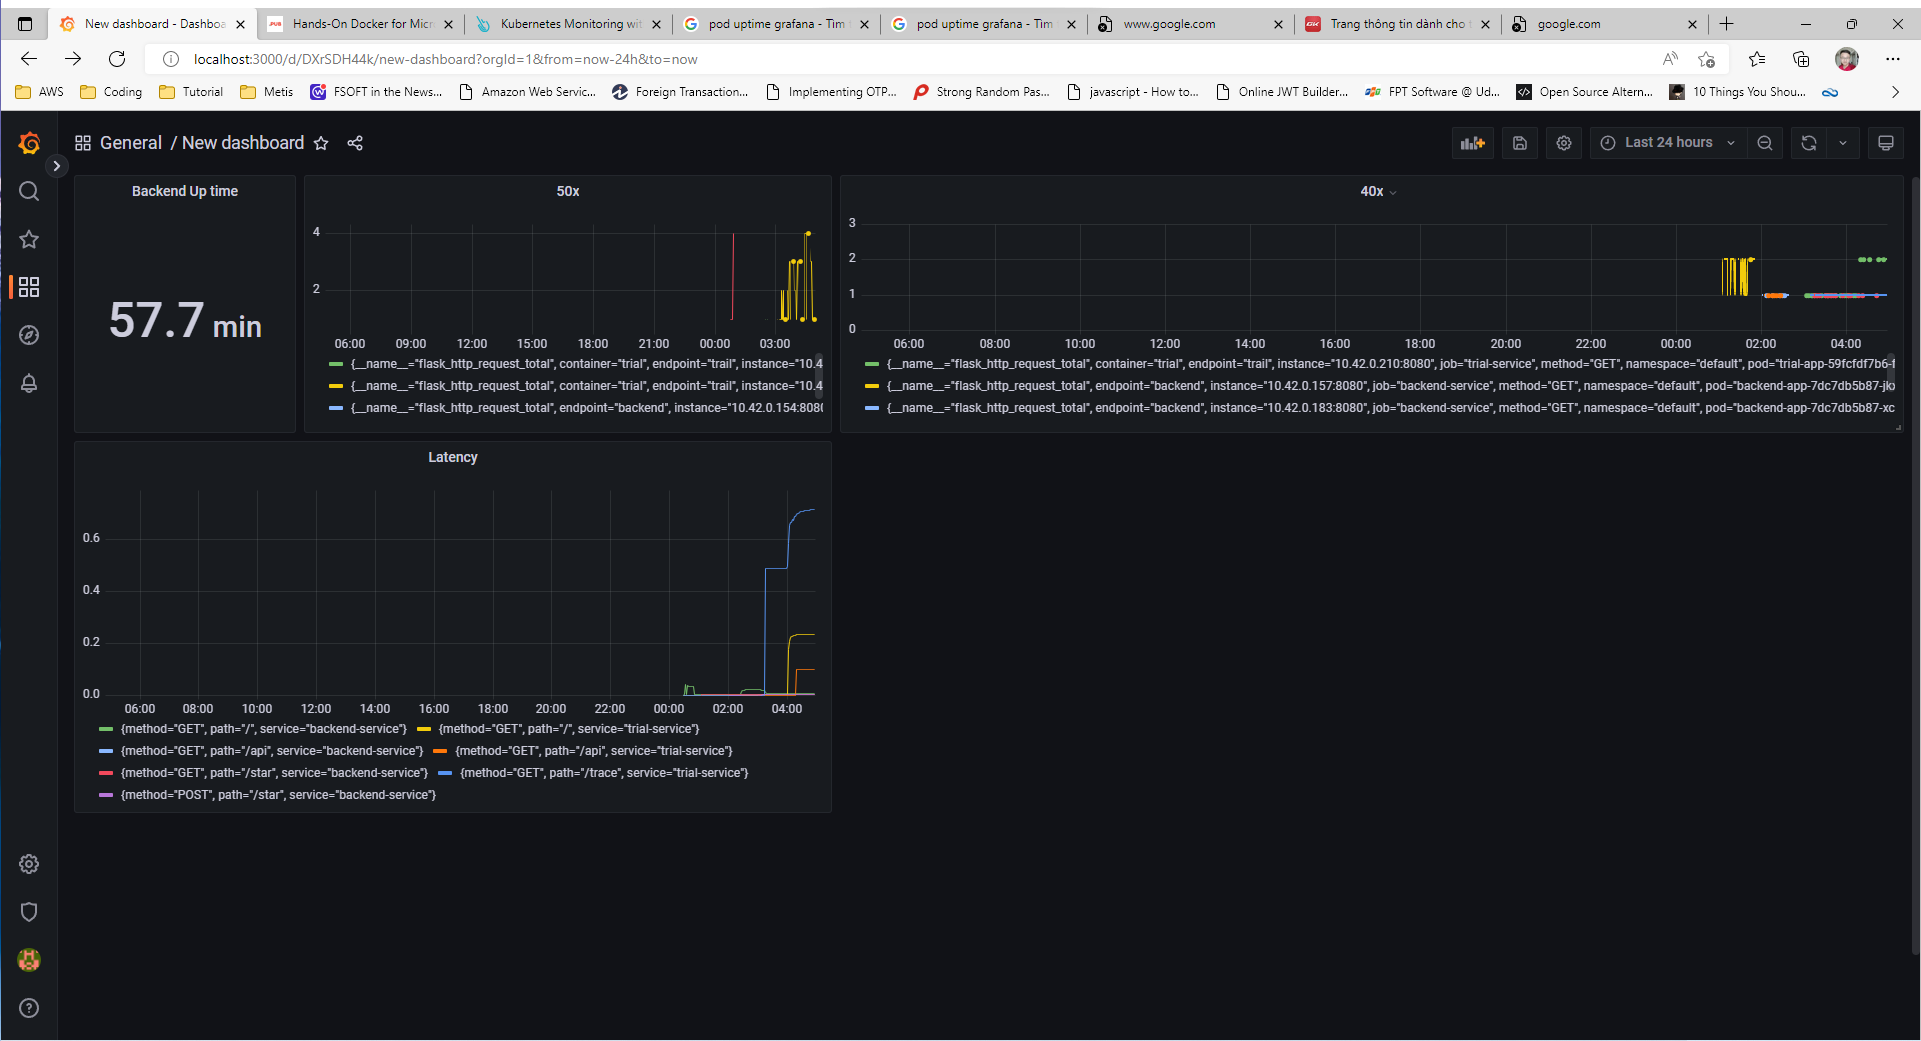
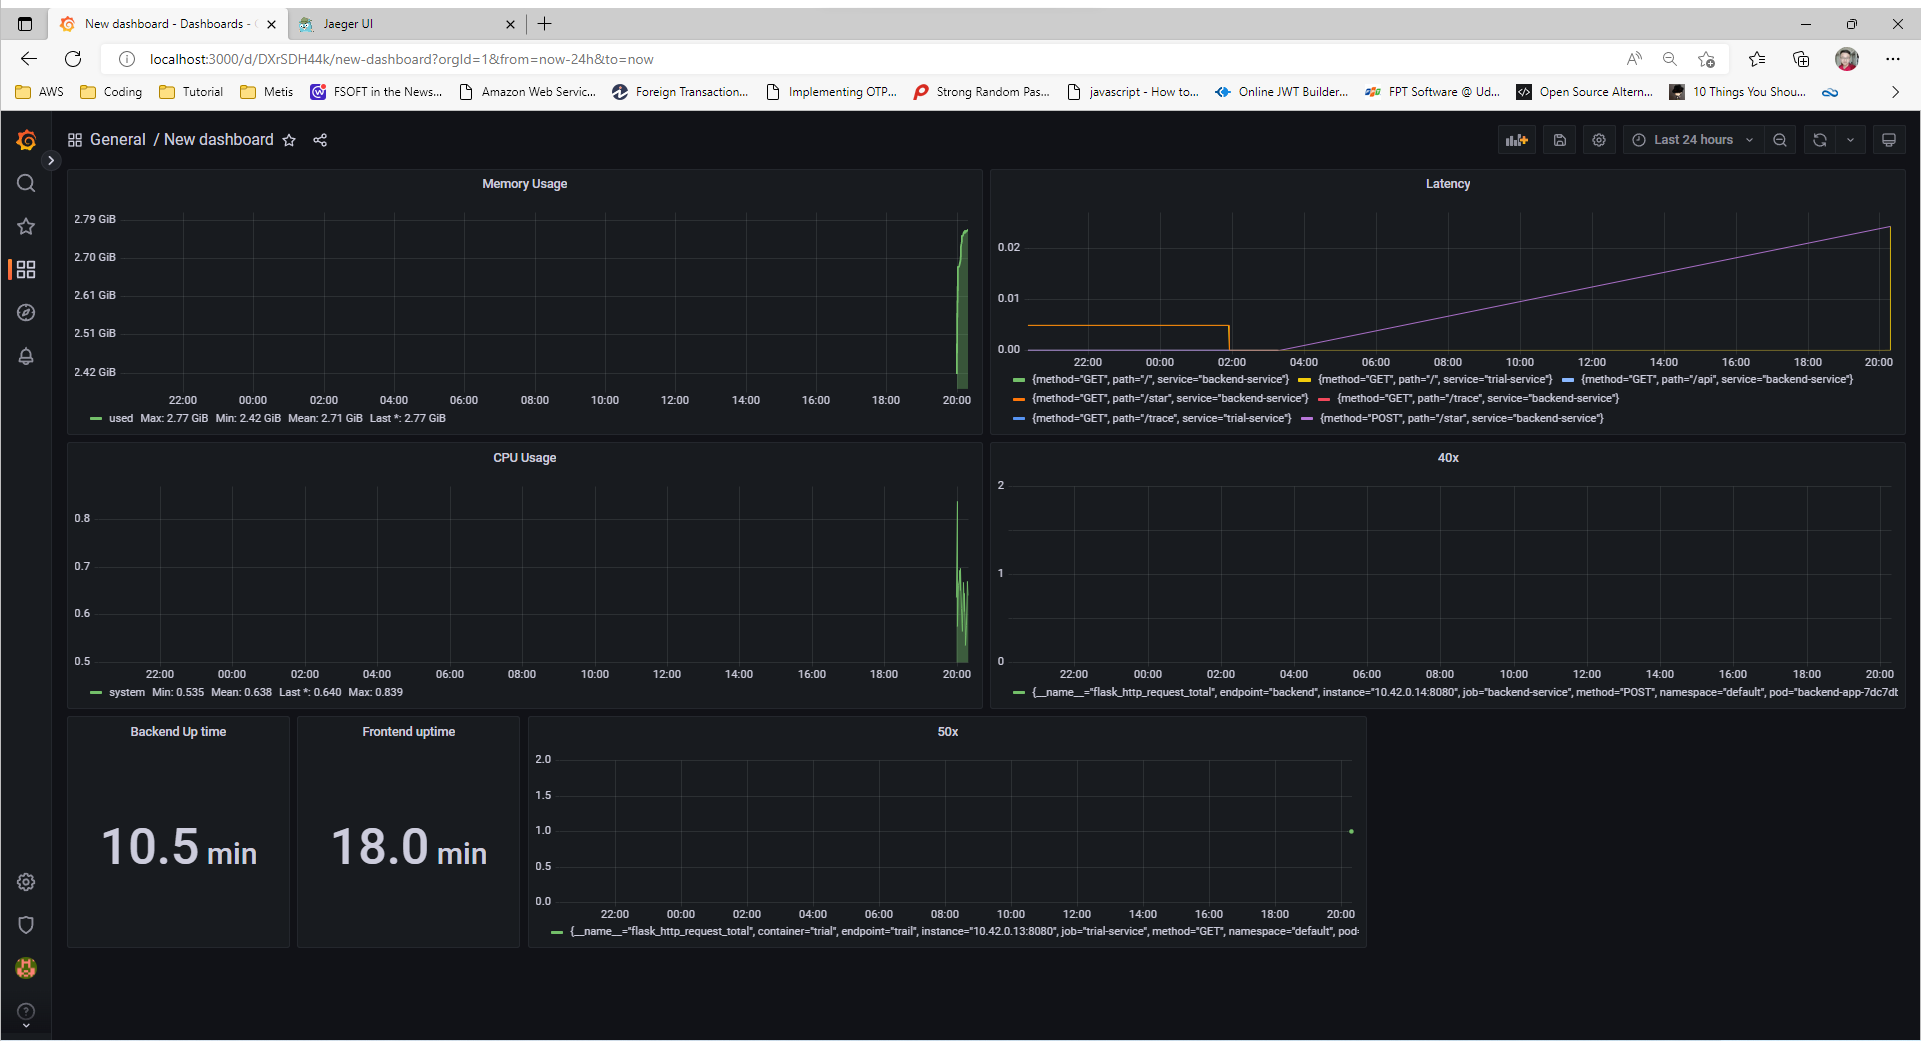
Fix review

diff --git a/Project_Starter_Files-Building_a_Metrics_Dashboard/README.md b/Project_Starter_Files-Building_a_Metrics_Dashboard/README.md
@@ -18,6 +18,8 @@
 
 ![Dashboard in Grafana with Prometheus as a source](./answer-img/cpu_usage_dashboard.png "Cpu usage with backend container")
 
+![Create a Basic Dashboard shows Prometheus as a source](./answer-img/grafana_home_page_after_login_review.png "Create a Basic Dashboard shows Prometheus as a source")
+
 ## Describe SLO/SLI
 *DONE:* Describe, in your own words, what the SLIs are, based on an SLO of *monthly uptime* and *request response time*.
 - SLIs is actual meassurement of SLO. In case of SLO *monthly uptime* and *request response time*. We can have these following SLI
@@ -42,7 +44,7 @@ The first 4 metrics is from *Four Golden Signals*
 ## Create a Dashboard to measure our SLIs
 *DONE:* Create a dashboard to measure the uptime of the frontend and backend services We will also want to measure to measure 40x and 50x errors. Create a dashboard that show these values over a 24 hour period and take a screenshot.
 
-![Backend Jaeger](./answer-img/dash_board.png "Backend Jaeger")
+![Create a Dashboard to measure our SLIs](./answer-img/up-time-error.png "Uptime of the frontend and backend services We will also want to measure to measure 40x and 50x errors")
 
 
 ## Tracing our Flask App
@@ -72,7 +74,9 @@ Affected Area: home page api of trial service
 
 Severity: High
 
-Description: Request the home page trial service but the template not found
+Description: Request the home page trial service but the template not found. The image below contain the trace span.
+
+![Trace Span](./answer-img/trial_trace_span.png "Trace Span")
 
 
 ## Creating SLIs and SLOs
@@ -89,11 +93,20 @@ Description: Request the home page trial service but the template not found
 ## Building KPIs for our plan
 *DONE*: Now that we have our SLIs and SLOs, create a list of 2-3 KPIs to accurately measure these metrics as well as a description of why those KPIs were chosen. We will make a dashboard for this, but first write them down here.
 
-- CPU Utilization less than 50%
-- Memory Utilization less than 70%
-- Backend API request/response time should be under 100ms
+- Latency
+    - Backend API request/response time
+    - Trial API request/response time
+- Traffic
+    - Total of HTTP requests/second for Backend
+    - Total of HTTP requests/second for Frontend
+- Errors
+    - Total 40x error code
+    - Total 50x error code
+- Saturation
+    - CPU Utilization
+    - Memory Utilization
 
 ## Final Dashboard
 *DONE*: Create a Dashboard containing graphs that capture all the metrics of your KPIs and adequately representing your SLIs and SLOs. Include a screenshot of the dashboard here, and write a text description of what graphs are represented in the dashboard.  
 
-![Final Dashboard](./answer-img/final.png "Final Dashboard")
+![Final Dashboard](./answer-img/final_after_review.png "Final Dashboard")
